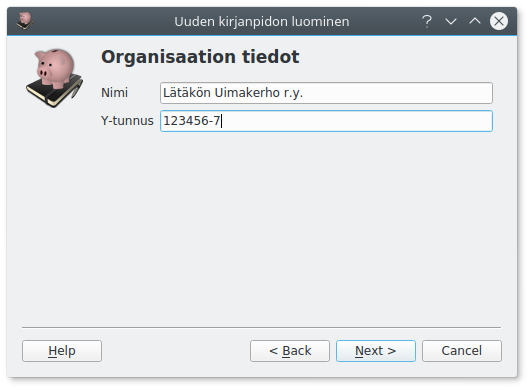
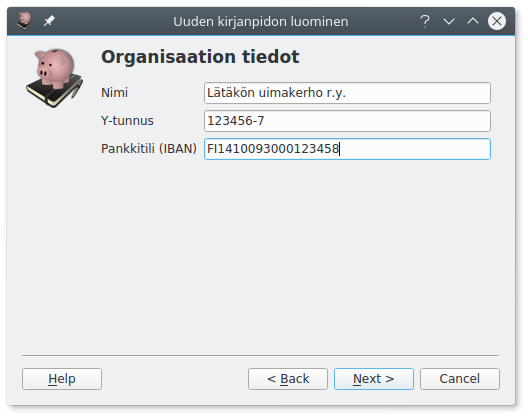
Doc

diff --git a/docs/kirjaus/index.md b/docs/kirjaus/index.md
@@ -6,6 +6,8 @@
 
 Useimmat tavanomaiset kirjaukset kuten ostot, myynnit, nostot pankkitililtä jne. kirjaat helpoiten käyttämällä Avustajaa.
 
+!!! tip "Tiliotteen tai ostolaskun tuominen"
+    Kitupiikki yrittää tehdä kirjausehdotuksen pdf-tiedoston pohjalta. Katso tarkemmin [Tuonti](tuonti).
 
 
 1. Jos tosite on tietokoneella (pdf- tai jpg-tiedostona) tuo se joko raahaamalla se **Sähköinen tosite**-kohtaan tai **Valitse tiedosto**-napilla.
@@ -66,6 +68,14 @@ Voit lisätä enemmän tiedostoja **Liitteet**-välilehdeltä **Lisää**-napist
 Lisäliite voi olla esimerkiksi hankintapäätös, tarjouspyyntö, lähetyslista tai muu tarpeellinen asiakirja.
 
 Voit myös tehdä tositteen, jossa on liite ja mahdollisesti kommentteja ilman yhtään vientiä, jos jokin asiakirja on tarpeen liittää sähköiseen arkistoon. Tällainen voi olla tarpeen esimerkiksi todennettaessa tilinpäätöksen liitetietoja liitetietotositteella.
+
+## Ostolaskun kohdennus
+
+![](olkohdennus.png)
+
+Kirjattaessa **Ostovelat**-tilille on kohdennusikkunassa käytettävissä myös ostolaskun lisätiedot. Näitä tietoja käytetään kohdennettaessa tiliotteelta tuotava suoritus oikealle laskulle. Kitupiikki pyrkii lisäämään nämä tiedot automaattisesti pdf-muotoiselta laskulta.
+
+Kun ostolaskulla on kohdennustietoja, näkyy Kohdennus-sarakkeessa sana **VIITE**.
 
 ## Tiliotteen kirjaaminen
 

diff --git a/docs/maaritykset/tilikartta/index.md b/docs/maaritykset/tilikartta/index.md
@@ -33,6 +33,9 @@ Tilejä lisättäessä on tärkeää, että tili tulee oikealle numeroalueelle, 
 
 **Verolaji** ja **veroprosentti** ovat tilin kirjauksen oletusvalintoja, verolajin ja -prosentin voi aina valita joka viennille erikseen, katso [arvonlisävero](/alv). Valinnat eivät ole näkyvissä, jos yritystä ei ole merkitty [perusvalinnoissa](../perusvalinnat) arvonlisävelvolliseksi.
 
+Pankkitileille syötetään lisäksi **IBAN-tilinumero**. Tilinumero tarvitaan maksujen kohdentamiseen maksuja
+ja tiliotteita tuotaessa.
+
 ## Tase-erittely ja tase-erät
 
 ![](myyntisaamiset.png)
@@ -68,6 +71,7 @@ Nämä tilit alkavat aina numerolla 1.
 * Poistokelpoinen omaisuus, tasapoisto
 * Saatavaa
 * Arvonlisäverosaatava (yksi tili)
+* Myyntisaatavat
 * Käteisvarat
 * Pankkitili
 
@@ -80,6 +84,7 @@ Nämä tilit alkavat aina numerolla 2.
 * Tämän tilikauden tulos (yksi tili)
 * Velat
 * Arvonlisäverovelka (yksi tili)
+* Ostovelat
 * Verovelka (OmaVero-ilmoitetut) (yksi tili)
 
 **Tuloslaskelman tilityypit**

diff --git a/docs/maaritykset/laskutus/index.md b/docs/maaritykset/laskutus/index.md
@@ -1,6 +1,6 @@
 ![](laskutus.png)
 
-Määrittelee **tilinumeron** (IBAN-muodossa) ja uusien laskujen oletusvalinnat
+Määrittelee uusien laskujen oletusvalinnat
 
 * **Tositelaji**, johon laskut kirjataan kirjanpidossa (yleensä myyntilaskut)
 * **Kirjausperuste**, jolla lasku kirjataan kirjanpitoon
@@ -13,3 +13,6 @@ Määrittelee **tilinumeron** (IBAN-muodossa) ja uusien laskujen oletusvalinnat
 * **Maksuaika** eräpäivän määrittelemiseen
 * Laskulle tulostettava **huomautusaika** ja **viivästyskorko**
 * **Seuraava viitenumero**. Jos olet laskuttanut saman tilivuoden aikana toisella ohjelmalla, valitse varmasti vapaaksi jäävä numeroalue. Kitupiikki huolehtii itse viimeisen numeron (tarkastusnumero) laskemisesta. Viitenumero toimii myös laskun numerona.
+
+Voidaksesi valita **laskuille tulostuvan pankkitilin numeron**, pitää IBAN-tilinumero olla syötettynä
+[tilin tiedoissa](/maaritykset/tilikartta).

diff --git a/docs/aloitus/index.md b/docs/aloitus/index.md
@@ -31,6 +31,10 @@ todellista kirjanpitoa.
 Toisessa ruudussa syötetään organisaation nimi ja Y-tunnus. Näitä voi muokata
 myöhemmin [perusmäärityksissä](/maaritykset/perusvalinnat/).
 
+Lisäksi voit syöttää pankkitilin (ensisijainen käyttötili) tilinumeron. Tilinumero tulostuu laskuille ja
+sitä käytetään myös maksujen ja tiliotteiden kohdistamiseen. Tilinumeron voi syöttää myöhemmin
+tilin tietoihin [tilikartassa](/maaritykset/tilikartta).
+
 ## Tilikartta
 
 ![](tilikartta4.png)

diff --git a/docs/kirjaus/tuonti/index.md b/docs/kirjaus/tuonti/index.md
@@ -1,0 +1,6 @@
+# Tuonti
+
+- pdf ostolaskut
+- pdf tiliotteet
+- csv-tiedostot
+- määritykset
